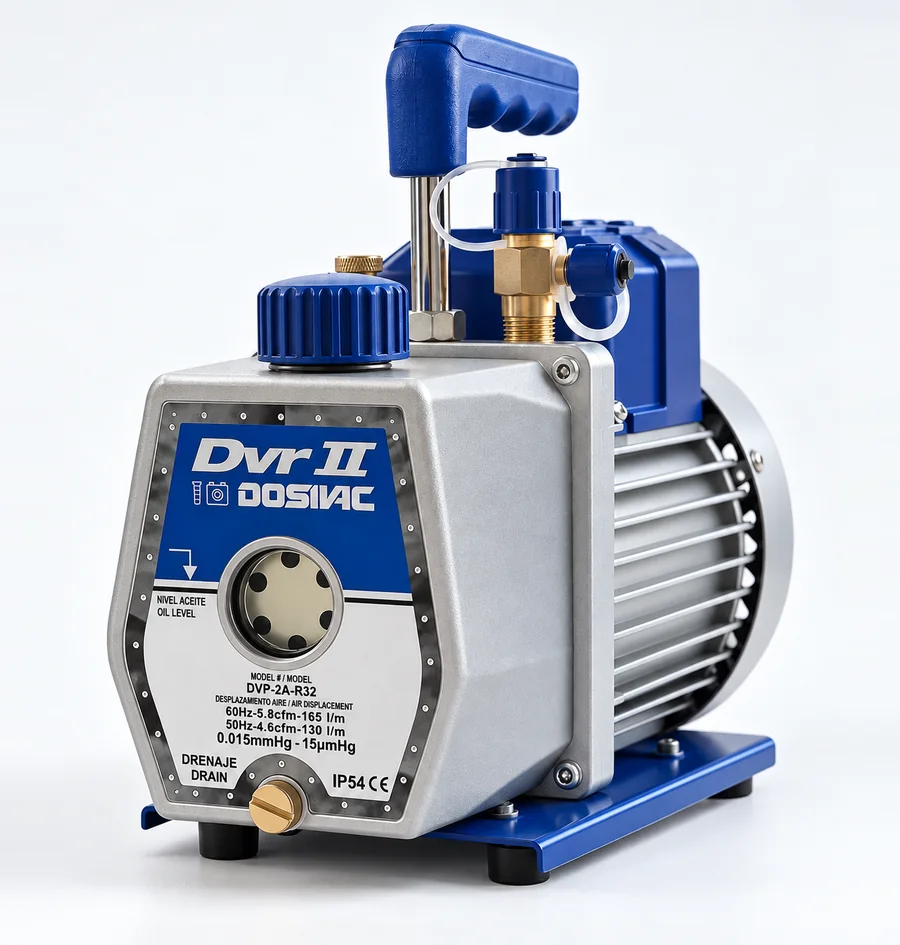
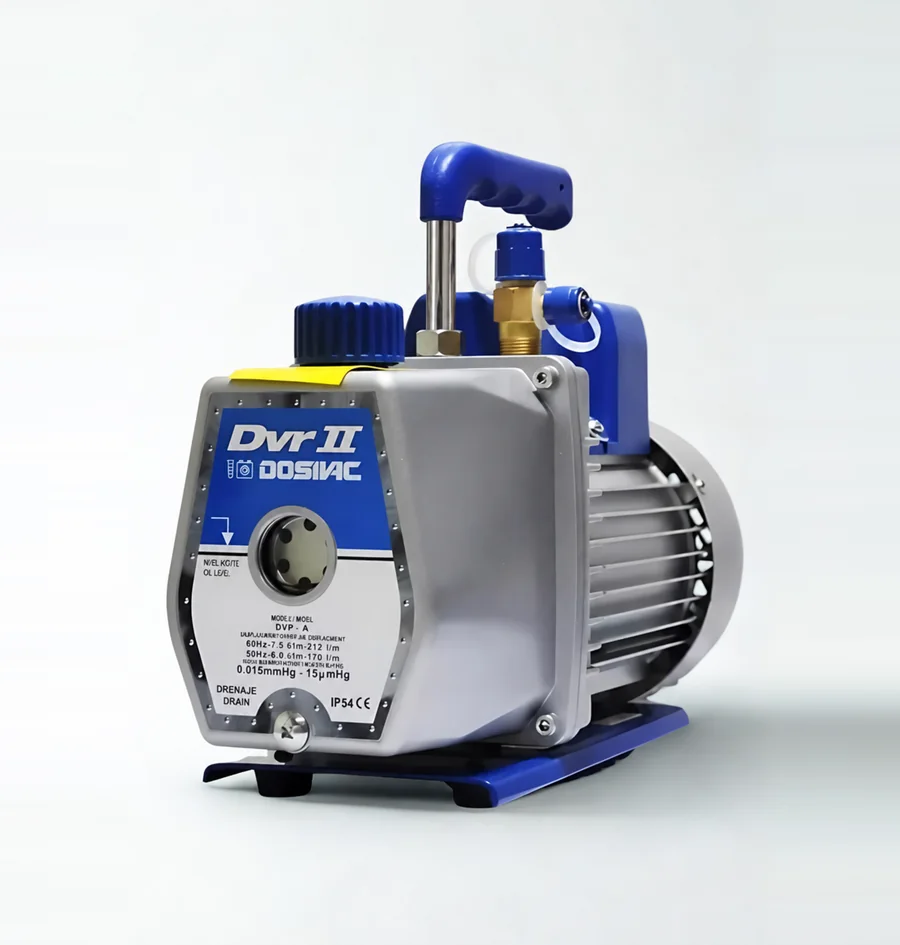
Combo: foto del aceite y nueva foto de la DVR apta R32

diff --git a/js/combo.js b/js/combo.js
@@ -44,6 +44,7 @@
     { test: /supervac\s*vp\s*1\b/, src: 'img/supervac-vp1.webp' },
     { test: /supervac\s*vp\s*2\b/, src: 'img/supervac-vp2.webp' },
     { test: /manguera/, src: 'img/manguera.webp' },
+    { test: /aceite/, src: 'img/aceite.webp' },
     // Bombas DVR: las aptas R32 tienen su propia foto (va primero); las demás usan la DVR común.
     // ("dvp" por si la 4A vuelve a escribirse con P).
     { test: /\b(dvr|dvp)\s*[1-4]a\b.*\br32\b/, src: 'img/bomba-dvr-r32.webp',

diff --git a/NOTAS.md b/NOTAS.md
@@ -78,7 +78,6 @@ datos personales, vínculos comerciales privados). El dueño los explica en el c
      (el dueño lo aprobó); nunca se recorta el producto ni se lo retoca.
    - Bombas DVR: las que dicen "R32" en el nombre → `img/bomba-dvr-r32.webp`; las demás → `img/bomba-vacio.webp`.
      Ambas con la nota "Imagen ilustrativa de la línea DVR. Cambia la capacidad."
-   - Falta: foto del **aceite** (por ahora sale "Foto próximamente").
    - **Higgsfield: no usarlo para nada sin el OK explícito del dueño.** Las pruebas anteriores (mejora 2K que
      inventaba letras y fotos compuestas con fondo armado) salieron mal y se descartaron.
 3. **Publicar el combo** cuando el dueño dé el OK: botón "Armá tu combo" en la página principal, quitar el
